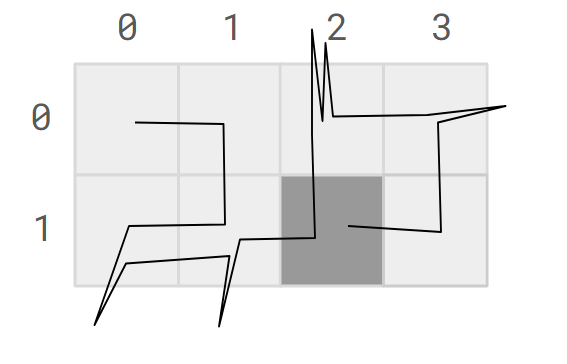
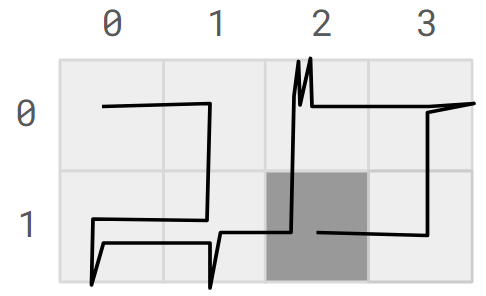
nicer pictures?

diff --git a/final/vasaloppet/problem_statement/problem.sv.tex b/final/vasaloppet/problem_statement/problem.sv.tex
@@ -14,7 +14,7 @@ Missade sekunder är de sekunder när Charlotte är ute på sin skidtur samtidig
 \begin{centering}
   \begin{figure}[h]
       \centering
-      \includegraphics[scale=0.6]{sample1.PNG}
+      \includegraphics[width=0.6\textwidth]{sample1.PNG}
       \caption{Bilden föreställer första exempelfallet. De röda rektanglarna är reklampauserna. Om Charlotte börjar sin skidtur när första pausen börjar och kommer tillbaka när andra pausen slutar så missar hon bara $2$ sekunder av Vasaloppet.}
       \label{fig:enter-label}
   \end{figure}

diff --git a/final/golvyta/problem_statement/problem.sv.tex b/final/golvyta/problem_statement/problem.sv.tex
@@ -49,8 +49,7 @@ För att få poäng för en grupp så måste du klara alla testfall i gruppen.
 \begin{centering}
   \begin{figure}[h]
       \centering
-      \includegraphics[scale=0.5]{golvyta.PNG}
+      \includegraphics[width=0.4\textwidth]{golvyta.PNG}
       \caption{Bilden visar det minsta möjliga rutnätet i sample 1. Roboten färdas enligt den svarta kurvan. Den mörka rutan är robotens slutgiltiga position.}
-      \label{fig:enter-label}
   \end{figure}
 \end{centering}

diff --git a/final/vasaloppet/problem_statement/problem.en.tex b/final/vasaloppet/problem_statement/problem.en.tex
@@ -14,7 +14,7 @@ while there is no ad break running.
 \begin{centering}
   \begin{figure}[h]
       \centering
-      \includegraphics[scale=0.6]{sample1.PNG}
+      \includegraphics[width=0.6\textwidth]{sample1.PNG}
       \caption{The picture describes the first sample case. The red rectangles are the ad breaks. If Charlotte
       starts her skiing trip when the first ad break starts and gets back home when the second break ends, she only misses
       $2$ seconds of Vasaloppet.}

diff --git a/final/golvyta/problem_statement/problem.en.tex b/final/golvyta/problem_statement/problem.en.tex
@@ -47,7 +47,7 @@ To get the points for a group, it must pass all the test cases in the group.
 \begin{centering}
   \begin{figure}[h]
       \centering
-      \includegraphics[scale=0.5]{golvyta.PNG}
+      \includegraphics[width=0.4\textwidth]{golvyta.PNG}
       \caption{The picture shows the smallest possible grid in sample case 1.
       The robot travels according to the black curve.
       The dark square is the robot's final position.}
